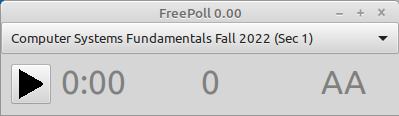
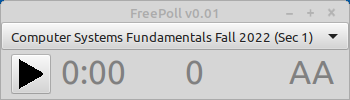
bump version to 0.01, minor doc improvements

diff --git a/guimain.cpp b/guimain.cpp
@@ -97,7 +97,7 @@ bool FreePollApp::OnInit()
     return false;
   }
 
-  FreePollFrame *frame = new FreePollFrame( "FreePoll " FREEPOLL_VERSION, model );
+  FreePollFrame *frame = new FreePollFrame( "FreePoll v" FREEPOLL_VERSION, model );
   frame->Show( true );
   return true;
 }

diff --git a/datatypes.h b/datatypes.h
@@ -32,6 +32,6 @@ enum class Option {
 typedef uint64_t Timestamp;
 
 // Version string
-#define FREEPOLL_VERSION "0.00"
+#define FREEPOLL_VERSION "0.01"
 
 #endif // DATATYPES_H

diff --git a/README.md b/README.md
@@ -12,25 +12,30 @@ use to run clicker quizzes from a Linux system.
 If you're interested in trying out FreePoll, first [compile it](#compilation),
 then you can refer to the [Guide](guide.md) for details on how to use it.
 
-FreePoll was basically written in one weekend, so almost certainly there
+FreePoll should be considered as alpha-quality software, and it's likely there
 are bugs. [Let me know](#contact) if you run into any.
 
 # Who might find FreePoll useful?
 
 If you use [Peer Instruction](https://mazur.harvard.edu/research-areas/peer-instruction)
 in your teaching, and you either run Linux or prefer to use open source software,
-FreePoll might be useful to you.  See the [Why](#why) section.
+FreePoll might be useful to you.  See the [Why](#why) section for some more
+background.
 
 # Compilation
 
-On Linux, you will need the libusb/hidapi development package and the
-wxWidgets development package to be installed.  On Debian or Ubuntu:
+On Linux, you will need
+
+* g++
+* make
+* the libusb/hidapi development package
+* the wxWidgets GTK3 development package
+
+On Debian or Ubuntu:
 
 ```
-sudo apt install libhidapi-dev libwxgtk3.0-gtk3-dev
+sudo apt install g++ make libhidapi-dev libwxgtk3.0-gtk3-dev
 ```
-
-You'll also need `g++` and `make`.
 
 To compile the program:
 
@@ -42,7 +47,9 @@ make -j
 (The `-j` option is just so `make` uses all of your CPU cores.)
 
 The command line executable is called `freepoll`, and the GUI executable
-is called `freepoll-gui`.
+is called `freepoll-gui`. (Note that the command line executable is
+just a test program, and you'll almost certainly want to use
+`freepoll-gui`.)
 
 # Why?
 
@@ -74,11 +81,11 @@ indicated which are the correct answers, you can find out who answered
 the question correctly. But you can't actually find out which specific
 choices the students made in their responses! (I am trying to avoid going
 into an extended rant about how frustrating this is. Suffice it to say
-that I think this is ridiculous and stupid.)
+that I think this is a ridiculous limitation.)
 
 So, what I want is a portable, open source client program that gives
-me full access to the students' responses.  This is what I would like
-FreePoll to be.
+me full access to the students' responses.  This is what FreePoll
+is intended to be.
 
 # Technical details
 
@@ -93,7 +100,7 @@ run and the responses written to a CSV file.
 My contribution was translating Jason's work to C++, and then writing
 a simple GUI for running polls.  The GUI is implemented using
 [wxWidgets](https://www.wxwidgets.org/).  Note that it's only been
-tested on Linux using GTK3.
+tested on Linux using wxGTK.
 
 The iClicker base station appears as a Human Interface Device (HID),
 which is probably the easiest kind of USB device to communicate with.
